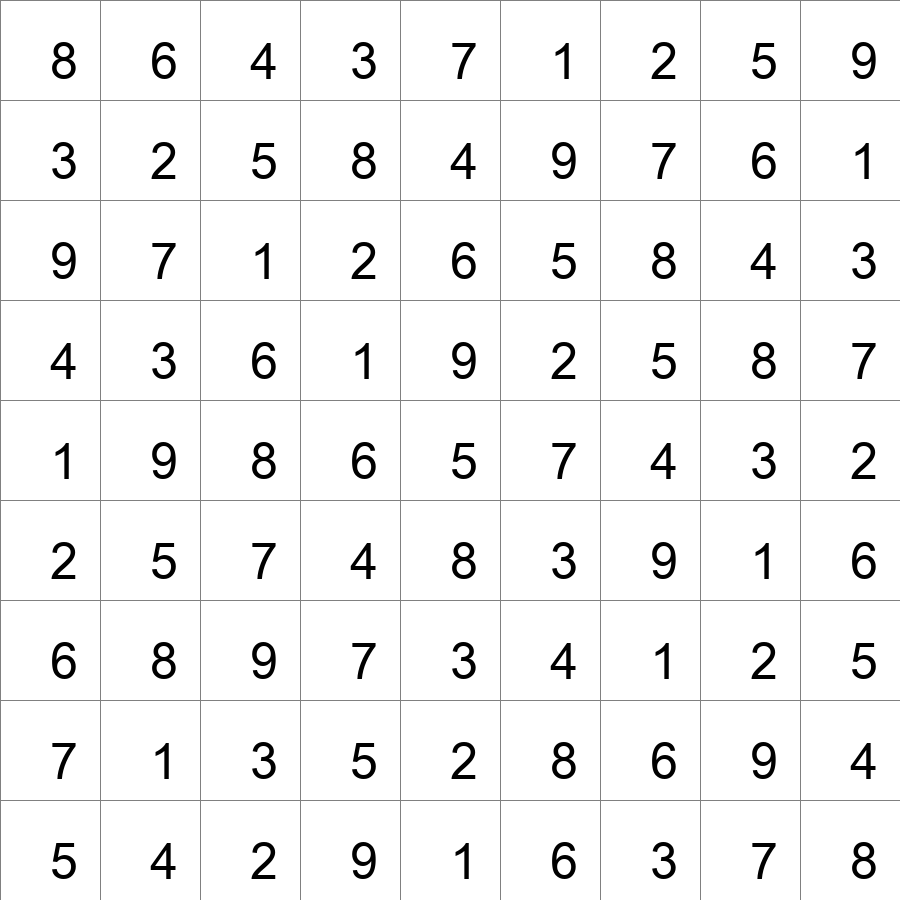
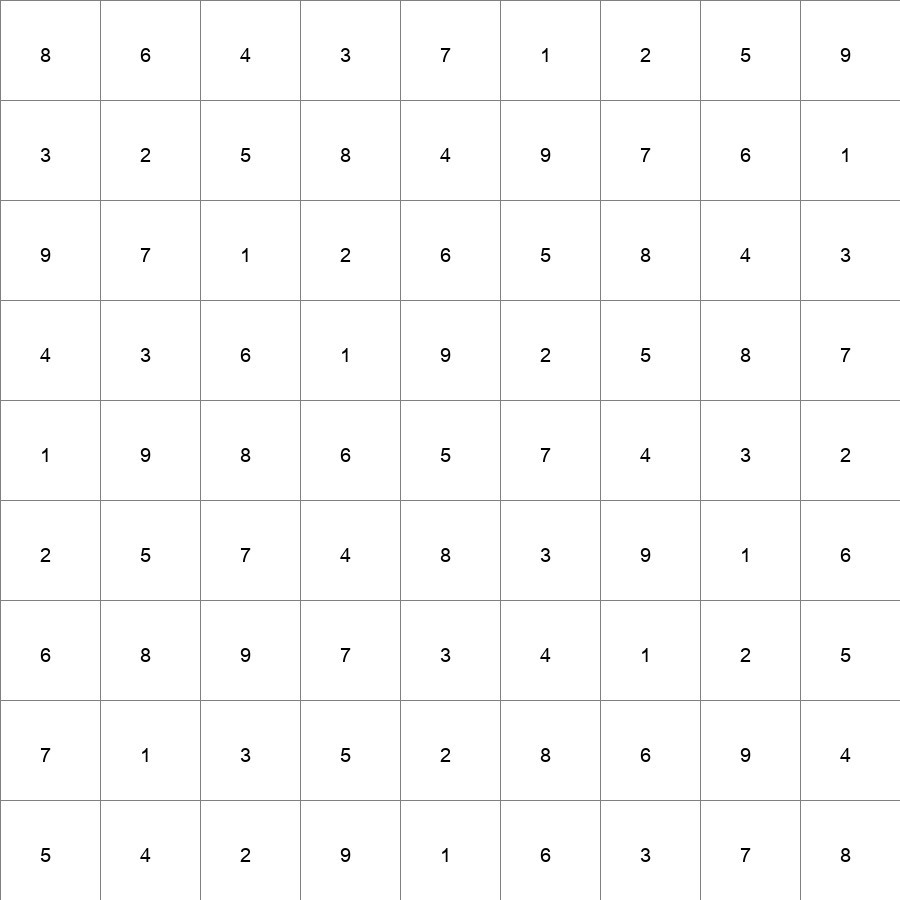
added calculation to trial.py

diff --git a/trials.py b/trials.py
@@ -2,15 +2,22 @@ import functions as func
 from PIL import Image, ImageFont, ImageDraw
 
 
-font = ImageFont.truetype("Arial Unicode.ttf", 50)
+font_size = 20
+font = ImageFont.truetype("Arial Unicode.ttf", font_size)
 sudoku = func.return_solutions("sudoku.csv", "solutions", 1)[0]
+img_height = 900
+img_width = 900
+box_height = img_height // 9
+box_width = img_width // 9
+start_x = (box_width - font_size) // 2
+start_y = (box_height - font_size) // 2
 img = Image.open("/Users/anuj/Desktop/Sudoku/Images/grid-1646985520.479167.png")
 draw = ImageDraw.Draw(img)
 print(sudoku)
 print(len(sudoku))
 count = 0
-for x in range(25, 900, 100):
-    for y in range(50, 900, 100):
+for x in range(start_x, img_height, 100):
+    for y in range(start_y, img_width, 100):
         draw.text((y,x), sudoku[count], font = font)
         count +=1
 
